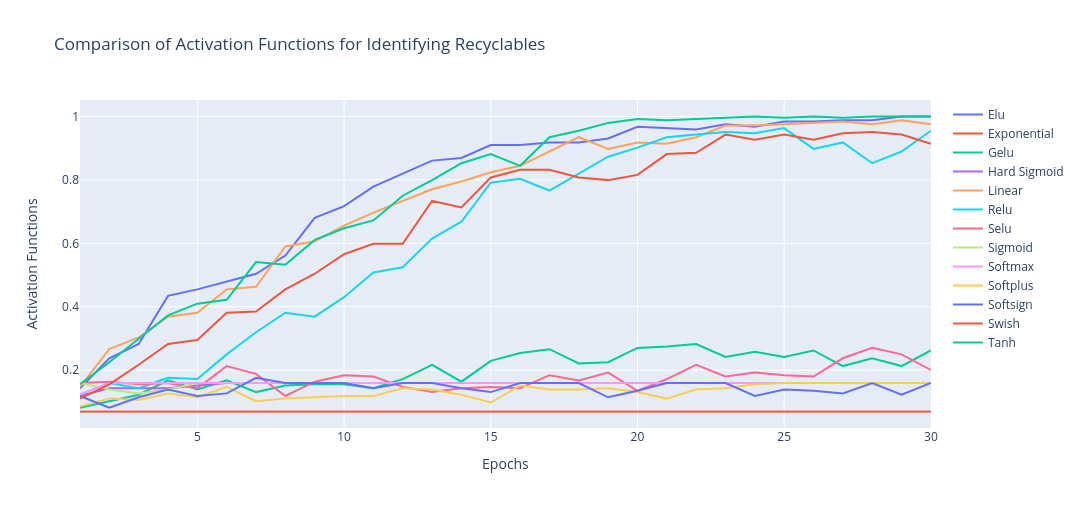
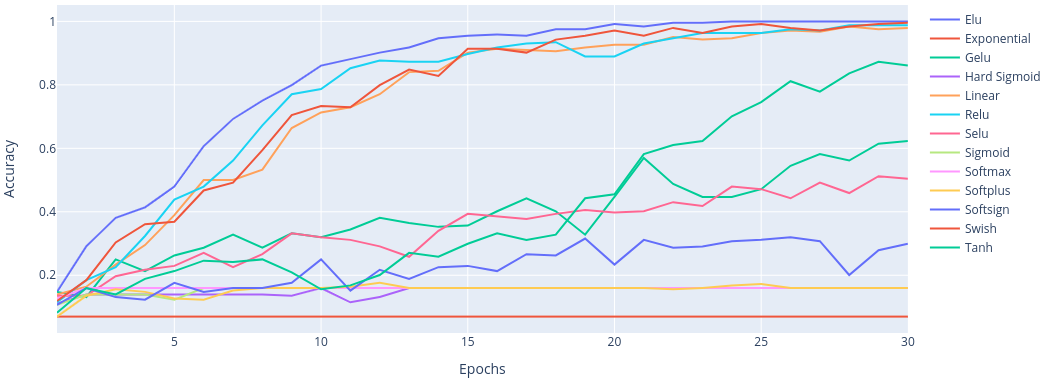
Added test results

diff --git a/results.py b/results.py
@@ -1,0 +1,3 @@
+activation_outputs = {'elu': [0.14754098653793335, 0.2909836173057556, 0.3811475336551666, 0.4139344394207001, 0.4795081913471222, 0.6065573692321777, 0.6926229596138, 0.75, 0.7991803288459778, 0.8606557250022888, 0.881147563457489, 0.9016393423080444, 0.9180327653884888, 0.9467213153839111, 0.9549180269241333, 0.9590163826942444, 0.9549180269241333, 0.9754098653793335, 0.9754098653793335, 0.9918032884597778, 0.9836065769195557, 0.9959016442298889, 0.9959016442298889, 1.0, 1.0, 1.0, 1.0, 1.0, 1.0, 1.0], 'exponential': [0.069672130048275, 0.069672130048275, 0.069672130048275, 0.069672130048275, 0.069672130048275, 0.069672130048275, 0.069672130048275, 0.069672130048275, 0.069672130048275, 0.069672130048275, 0.069672130048275, 0.069672130048275, 0.069672130048275, 0.069672130048275, 0.069672130048275, 0.069672130048275, 0.069672130048275, 0.069672130048275, 0.069672130048275, 0.069672130048275, 0.069672130048275, 0.069672130048275, 0.069672130048275, 0.069672130048275, 0.069672130048275, 0.069672130048275, 0.069672130048275, 0.069672130048275, 0.069672130048275, 0.069672130048275], 'gelu': [0.14754098653793335, 0.13114753365516663, 0.25, 0.21311475336551666, 0.26229506731033325, 0.28688523173332214, 0.32786884903907776, 0.28688523173332214, 0.33196720480918884, 0.3196721374988556, 0.3442623019218445, 0.3811475336551666, 0.3647541105747223, 0.35245901346206665, 0.35655736923217773, 0.40163934230804443, 0.44262295961380005, 0.40163934230804443, 0.32786884903907776, 0.44672131538391113, 0.5696721076965332, 0.48770493268966675, 0.44672131538391113, 0.44672131538391113, 0.4713114798069, 0.5450819730758667, 0.5819672346115112, 0.561475396156311, 0.6147540807723999, 0.6229507923126221], 'hard_sigmoid': [0.11065573990345001, 0.13934426009655, 0.13934426009655, 0.13934426009655, 0.13934426009655, 0.13934426009655, 0.13934426009655, 0.13934426009655, 0.1352459043264389, 0.1598360687494278, 0.1147540956735611, 0.13114753365516663, 0.1598360687494278, 0.1598360687494278, 0.1598360687494278, 0.1598360687494278, 0.1598360687494278, 0.1598360687494278, 0.1598360687494278, 0.1598360687494278, 0.1598360687494278, 0.1598360687494278, 0.1598360687494278, 0.1598360687494278, 0.1598360687494278, 0.1598360687494278, 0.1598360687494278, 0.1598360687494278, 0.1598360687494278, 0.1598360687494278], 'linear': [0.13934426009655, 0.16393442451953888, 0.23360656201839447, 0.2950819730758667, 0.3893442749977112, 0.5, 0.5, 0.5327869057655334, 0.6639344096183777, 0.7131147384643555, 0.7295082211494446, 0.7704917788505554, 0.8401639461517334, 0.8442623019218445, 0.9016393423080444, 0.9139344096183777, 0.9098360538482666, 0.9057376980781555, 0.9180327653884888, 0.9262295365333557, 0.9262295365333557, 0.9508196711540222, 0.9426229596138, 0.9467213153839111, 0.9631147384643555, 0.9713114500045776, 0.9672130942344666, 0.9836065769195557, 0.9754098653793335, 0.9795082211494446], 'relu': [0.1147540956735611, 0.1844262331724167, 0.2254098355770111, 0.3237704932689667, 0.43852460384368896, 0.4795081913471222, 0.561475396156311, 0.6721311211585999, 0.7704917788505554, 0.7868852615356445, 0.8524590134620667, 0.8770492076873779, 0.8729507923126221, 0.8729507923126221, 0.8975409865379333, 0.9180327653884888, 0.9303278923034668, 0.9344262480735779, 0.8893442749977112, 0.8893442749977112, 0.9303278923034668, 0.9467213153839111, 0.9631147384643555, 0.9631147384643555, 0.9631147384643555, 0.9754098653793335, 0.9713114500045776, 0.9877049326896667, 0.9877049326896667, 0.9877049326896667], 'selu': [0.1352459043264389, 0.1352459043264389, 0.19672131538391113, 0.21721310913562775, 0.2295081913471222, 0.2704918086528778, 0.2254098355770111, 0.2663934528827667, 0.33196720480918884, 0.3196721374988556, 0.31147539615631104, 0.2909836173057556, 0.25819671154022217, 0.3401639461517334, 0.39344263076782227, 0.3852458894252777, 0.37704917788505554, 0.39344263076782227, 0.4057376980781555, 0.39754098653793335, 0.40163934230804443, 0.4303278625011444, 0.41803279519081116, 0.4795081913471222, 0.4713114798069, 0.44262295961380005, 0.49180328845977783, 0.4590163826942444, 0.5122950673103333, 0.5040983557701111], 'sigmoid': [0.10655737668275833, 0.13934426009655, 0.13934426009655, 0.13934426009655, 0.12295082211494446, 0.1598360687494278, 0.1598360687494278, 0.1598360687494278, 0.1598360687494278, 0.1598360687494278, 0.1598360687494278, 0.1598360687494278, 0.1598360687494278, 0.1598360687494278, 0.1598360687494278, 0.1598360687494278, 0.1598360687494278, 0.1598360687494278, 0.1598360687494278, 0.1598360687494278, 0.1598360687494278, 0.1598360687494278, 0.1598360687494278, 0.1598360687494278, 0.1598360687494278, 0.1598360687494278, 0.1598360687494278, 0.1598360687494278, 0.1598360687494278, 0.1598360687494278], 'softmax': [0.12704917788505554, 0.1598360687494278, 0.1598360687494278, 0.1598360687494278, 0.1598360687494278, 0.1598360687494278, 0.1598360687494278, 0.1598360687494278, 0.1598360687494278, 0.1598360687494278, 0.1598360687494278, 0.1598360687494278, 0.1598360687494278, 0.1598360687494278, 0.1598360687494278, 0.1598360687494278, 0.1598360687494278, 0.1598360687494278, 0.1598360687494278, 0.1598360687494278, 0.1598360687494278, 0.1598360687494278, 0.1598360687494278, 0.1598360687494278, 0.1598360687494278, 0.1598360687494278, 0.1598360687494278, 0.1598360687494278, 0.1598360687494278, 0.1598360687494278], 'softplus': [0.069672130048275, 0.1352459043264389, 0.15573769807815552, 0.14754098653793335, 0.12704917788505554, 0.12295082211494446, 0.15163934230804443, 0.1598360687494278, 0.1598360687494278, 0.1598360687494278, 0.16393442451953888, 0.17622950673103333, 0.1598360687494278, 0.1598360687494278, 0.1598360687494278, 0.1598360687494278, 0.1598360687494278, 0.1598360687494278, 0.1598360687494278, 0.1598360687494278, 0.1598360687494278, 0.15573769807815552, 0.1598360687494278, 0.16803278028964996, 0.17213115096092224, 0.1598360687494278, 0.1598360687494278, 0.1598360687494278, 0.1598360687494278, 0.1598360687494278], 'softsign': [0.10655737668275833, 0.1598360687494278, 0.13114753365516663, 0.12295082211494446, 0.17622950673103333, 0.14754098653793335, 0.1598360687494278, 0.1598360687494278, 0.17622950673103333, 0.25, 0.15163934230804443, 0.21721310913562775, 0.18852458894252777, 0.2254098355770111, 0.2295081913471222, 0.21311475336551666, 0.2663934528827667, 0.26229506731033325, 0.3155737817287445, 0.23360656201839447, 0.31147539615631104, 0.28688523173332214, 0.2909836173057556, 0.30737704038619995, 0.31147539615631104, 0.3196721374988556, 0.30737704038619995, 0.20081967115402222, 0.2786885201931, 0.2991803288459778], 'swish': [0.11885245889425278, 0.1844262331724167, 0.30327868461608887, 0.3606557250022888, 0.3688524663448334, 0.46721312403678894, 0.49180328845977783, 0.5942623019218445, 0.7049180269241333, 0.7336065769195557, 0.7295082211494446, 0.7991803288459778, 0.8483606576919556, 0.8278688788414001, 0.9139344096183777, 0.9139344096183777, 0.9016393423080444, 0.9426229596138, 0.9549180269241333, 0.9713114500045776, 0.9549180269241333, 0.9795082211494446, 0.9631147384643555, 0.9836065769195557, 0.9918032884597778, 0.9795082211494446, 0.9713114500045776, 0.9836065769195557, 0.9918032884597778, 0.9959016442298889], 'tanh': [0.08196721225976944, 0.1598360687494278, 0.13934426009655, 0.18852458894252777, 0.21311475336551666, 0.24590164422988892, 0.24180327355861664, 0.25, 0.20901639759540558, 0.15573769807815552, 0.16803278028964996, 0.20081967115402222, 0.2704918086528778, 0.25819671154022217, 0.2991803288459778, 0.33196720480918884, 0.31147539615631104, 0.32786884903907776, 0.44262295961380005, 0.4549180269241333, 0.5819672346115112, 0.6106557250022888, 0.6229507923126221, 0.7008196711540222, 0.7459016442298889, 0.811475396156311, 0.7786885499954224, 0.8360655903816223, 0.8729507923126221, 0.8606557250022888]}
+layer_outputs = {2: [0.1352459043264389, 0.2745901644229889, 0.3893442749977112, 0.26229506731033325, 0.33196720480918884, 0.42213115096092224, 0.46311476826667786, 0.5081967115402222, 0.5901639461517334, 0.6598360538482666, 0.6557376980781555, 0.7049180269241333, 0.7459016442298889, 0.7663934230804443, 0.8155737519264221, 0.8729507923126221, 0.8565573692321777, 0.8729507923126221, 0.9016393423080444, 0.9057376980781555, 0.8893442749977112, 0.881147563457489, 0.8975409865379333, 0.9467213153839111, 0.9508196711540222, 0.9467213153839111, 0.9508196711540222, 0.9426229596138, 0.9549180269241333, 0.9631147384643555], 3: [0.16393442451953888, 0.25, 0.23360656201839447, 0.3401639461517334, 0.3647541105747223, 0.48770493268966675, 0.5327869057655334, 0.618852436542511, 0.6475409865379333, 0.7213114500045776, 0.7704917788505554, 0.811475396156311, 0.8237704634666443, 0.8401639461517334, 0.8647540807723999, 0.8975409865379333, 0.8934426307678223, 0.9303278923034668, 0.9426229596138, 0.9590163826942444, 0.9590163826942444, 0.9549180269241333, 0.9467213153839111, 0.9672130942344666, 0.9590163826942444, 0.9631147384643555, 0.9918032884597778, 0.9754098653793335, 0.9590163826942444, 0.9713114500045776], 4: [0.11885245889425278, 0.24180327355861664, 0.26229506731033325, 0.37295082211494446, 0.3852458894252777, 0.49180328845977783, 0.5327869057655334, 0.5901639461517334, 0.6475409865379333, 0.6639344096183777, 0.7377049326896667, 0.7459016442298889, 0.7868852615356445, 0.8032786846160889, 0.8483606576919556, 0.8606557250022888, 0.8893442749977112, 0.9057376980781555, 0.9016393423080444, 0.9016393423080444, 0.8975409865379333, 0.938524603843689, 0.8770492076873779, 0.8606557250022888, 0.8729507923126221, 0.9344262480735779, 0.9180327653884888, 0.9262295365333557, 0.9467213153839111, 0.9754098653793335], 5: [0.15163934230804443, 0.23360656201839447, 0.2745901644229889, 0.3196721374988556, 0.39754098653793335, 0.41803279519081116, 0.5368852615356445, 0.5368852615356445, 0.5655737519264221, 0.6352459192276001, 0.7049180269241333, 0.7459016442298889, 0.7991803288459778, 0.7909836173057556, 0.8606557250022888, 0.8975409865379333, 0.9016393423080444, 0.9303278923034668, 0.9426229596138, 0.9139344096183777, 0.8975409865379333, 0.9139344096183777, 0.938524603843689, 0.9631147384643555, 0.9836065769195557, 0.9877049326896667, 0.9959016442298889, 1.0, 1.0, 0.9959016442298889], 6: [0.19672131538391113, 0.19672131538391113, 0.28688523173332214, 0.2745901644229889, 0.3196721374988556, 0.4836065471172333, 0.5368852615356445, 0.5696721076965332, 0.6721311211585999, 0.6803278923034668, 0.75, 0.7827869057655334, 0.8360655903816223, 0.9221311211585999, 0.9221311211585999, 0.938524603843689, 0.9344262480735779, 0.9713114500045776, 0.9754098653793335, 0.9754098653793335, 0.9754098653793335, 0.9180327653884888, 0.8770492076873779, 0.9016393423080444, 0.9467213153839111, 0.9590163826942444, 0.9590163826942444, 0.9754098653793335, 0.9549180269241333, 0.9672130942344666], 7: [0.13934426009655, 0.21311475336551666, 0.21311475336551666, 0.2254098355770111, 0.30737704038619995, 0.3442623019218445, 0.3811475336551666, 0.42213115096092224, 0.4590163826942444, 0.561475396156311, 0.5450819730758667, 0.5901639461517334, 0.6598360538482666, 0.6557376980781555, 0.7418032884597778, 0.8073770403862, 0.8196721076965332, 0.8155737519264221, 0.8524590134620667, 0.8770492076873779, 0.8975409865379333, 0.9016393423080444, 0.9098360538482666, 0.8893442749977112, 0.9303278923034668, 0.8565573692321777, 0.868852436542511, 0.8483606576919556, 0.8524590134620667, 0.881147563457489]}
+swish_layer_outputs = {2: [0.13114753365516663, 0.1598360687494278, 0.19262294471263885, 0.2909836173057556, 0.3360655605792999, 0.3893442749977112, 0.4508196711540222, 0.4713114798069, 0.5, 0.561475396156311, 0.4590163826942444, 0.5983606576919556, 0.6762295365333557, 0.6557376980781555, 0.7049180269241333, 0.7213114500045776, 0.6967213153839111, 0.7704917788505554, 0.7704917788505554, 0.8073770403862, 0.8278688788414001, 0.8401639461517334, 0.8524590134620667, 0.8278688788414001, 0.8524590134620667, 0.8729507923126221, 0.881147563457489, 0.8975409865379333, 0.9098360538482666, 0.9508196711540222], 3: [0.1803278625011444, 0.25, 0.28688523173332214, 0.4139344394207001, 0.4795081913471222, 0.5163934230804443, 0.5532786846160889, 0.6147540807723999, 0.6557376980781555, 0.7336065769195557, 0.7336065769195557, 0.8483606576919556, 0.8565573692321777, 0.8729507923126221, 0.868852436542511, 0.9098360538482666, 0.9631147384643555, 0.9344262480735779, 0.9426229596138, 0.9467213153839111, 0.9508196711540222, 0.9549180269241333, 0.9836065769195557, 0.9918032884597778, 0.9918032884597778, 1.0, 0.9959016442298889, 1.0, 1.0, 1.0], 4: [0.19672131538391113, 0.15573769807815552, 0.16803278028964996, 0.21311475336551666, 0.28688523173332214, 0.37295082211494446, 0.3606557250022888, 0.41803279519081116, 0.5409836173057556, 0.6065573692321777, 0.6065573692321777, 0.6762295365333557, 0.75, 0.8155737519264221, 0.8032786846160889, 0.8360655903816223, 0.8483606576919556, 0.8729507923126221, 0.9016393423080444, 0.9344262480735779, 0.9098360538482666, 0.9016393423080444, 0.9467213153839111, 0.9057376980781555, 0.9262295365333557, 0.9344262480735779, 0.9467213153839111, 0.9303278923034668, 0.9303278923034668, 0.9426229596138], 5: [0.11885245889425278, 0.10245901346206665, 0.16803278028964996, 0.1844262331724167, 0.17213115096092224, 0.24590164422988892, 0.3401639461517334, 0.4057376980781555, 0.3811475336551666, 0.46721312403678894, 0.5696721076965332, 0.5696721076965332, 0.5491803288459778, 0.6147540807723999, 0.7049180269241333, 0.6844262480735779, 0.7909836173057556, 0.7991803288459778, 0.7991803288459778, 0.868852436542511, 0.8729507923126221, 0.8852459192276001, 0.9139344096183777, 0.9344262480735779, 0.9467213153839111, 0.9590163826942444, 0.9549180269241333, 0.9631147384643555, 0.9549180269241333, 0.9508196711540222], 6: [0.14344261586666107, 0.15573769807815552, 0.15163934230804443, 0.21311475336551666, 0.21311475336551666, 0.2540983557701111, 0.30737704038619995, 0.3196721374988556, 0.37704917788505554, 0.40163934230804443, 0.44672131538391113, 0.49180328845977783, 0.5081967115402222, 0.6106557250022888, 0.6680327653884888, 0.7008196711540222, 0.7581967115402222, 0.7909836173057556, 0.811475396156311, 0.8319672346115112, 0.8401639461517334, 0.8647540807723999, 0.8729507923126221, 0.9180327653884888, 0.9426229596138, 0.9426229596138, 0.9467213153839111, 0.9590163826942444, 0.9631147384643555, 0.9672130942344666], 7: [0.0901639312505722, 0.15163934230804443, 0.15573769807815552, 0.13114753365516663, 0.17213115096092224, 0.17213115096092224, 0.22131147980690002, 0.21721310913562775, 0.23770491778850555, 0.24590164422988892, 0.2540983557701111, 0.26229506731033325, 0.2745901644229889, 0.3401639461517334, 0.34836065769195557, 0.46721312403678894, 0.4754098355770111, 0.5368852615356445, 0.5450819730758667, 0.6393442749977112, 0.6926229596138, 0.7295082211494446, 0.7745901346206665, 0.7131147384643555, 0.7540983557701111, 0.7950819730758667, 0.811475396156311, 0.8606557250022888, 0.9139344096183777, 0.9098360538482666]}

diff --git a/testing.py b/testing.py
@@ -9,28 +9,31 @@ for activation in ['elu', 'exponential', 'gelu', 'hard_sigmoid', 'linear', 'relu
         output = c.fit()
         activation_outputs[activation] = output.history['accuracy']
         print(activation, 'accuracy', str(output.history['accuracy'][-1]))
+        del c
     except:
         pass
 print('activation_outputs =', activation_outputs)
 
 layer_outputs = {}
-for count in range(2, 16):
+for count in range(2, 8):
     try:
-        c = PlasticRecyclableClassifier('plastics', conv2d_layer_count=count)
+        c = PlasticRecyclableClassifier('plastics', activation='elu', conv2d_layer_count=count, epochs=30)
         output = c.fit()
         layer_outputs[count] = output.history['accuracy']
         print('%d layer accuracy' % count, str(output.history['accuracy'][-1]))
+        del c
     except:
         pass
 print('layer_outputs =', layer_outputs)
 
-epochs_outputs = {}
-for epochs in range(2, 50):
+layer_outputs = {}
+for count in range(2, 8):
     try:
-        c = PlasticRecyclableClassifier('plastics', epochs=epochs)
+        c = PlasticRecyclableClassifier('plastics', activation='swish', conv2d_layer_count=count, epochs=30)
         output = c.fit()
-        epochs_outputs[epochs] = output.history['accuracy']
-        print('%d epochs accuracy' % epochs, str(output.history['accuracy'][-1]))
+        layer_outputs[count] = output.history['accuracy']
+        print('%d layer accuracy' % count, str(output.history['accuracy'][-1]))
+        del c
     except:
         pass
-print('epochs_outputs =', epochs_outputs)
+print('swish_layer_outputs =', layer_outputs)

diff --git a/graph_results.py b/graph_results.py
@@ -1,0 +1,41 @@
+#!/usr/bin/env python3
+import plotly.graph_objects as go
+from results import *
+
+fig = go.Figure()
+for activation in activation_outputs.keys():
+    fig.add_scatter(
+        name=activation.replace('_', ' ').title(),
+        x=[i for i in range(1, len(activation_outputs[activation])+1)],
+        y=activation_outputs[activation],
+    )
+fig.update_layout(title='Comparison of Activation Functions for Identifying Recyclables with 5 hidden layers',
+                   xaxis_title='Epochs',
+                   yaxis_title='Accuracy')
+fig.show()
+
+fig1 = go.Figure()
+for layer in layer_outputs.keys():
+    fig1.add_scatter(
+        name='%d Layers' % layer,
+        x=[i for i in range(1, len(layer_outputs[layer])+1)],
+        y=layer_outputs[layer],
+    )
+fig1.update_layout(title='Comparison of elu Layers for Identifying Recyclables',
+                   xaxis_title='Epochs',
+                   yaxis_title='Accuracy')
+fig1.show()
+
+fig2 = go.Figure()
+for layer in swish_layer_outputs.keys():
+    fig2.add_scatter(
+        name='%d Layers' % layer,
+        x=[i for i in range(1, len(swish_layer_outputs[layer])+1)],
+        y=swish_layer_outputs[layer],
+    )
+fig2.update_layout(title='Comparison of Swish Layers for Identifying Recyclables',
+                   xaxis_title='Epochs',
+                   yaxis_title='Accuracy')
+fig2.show()
+
+
